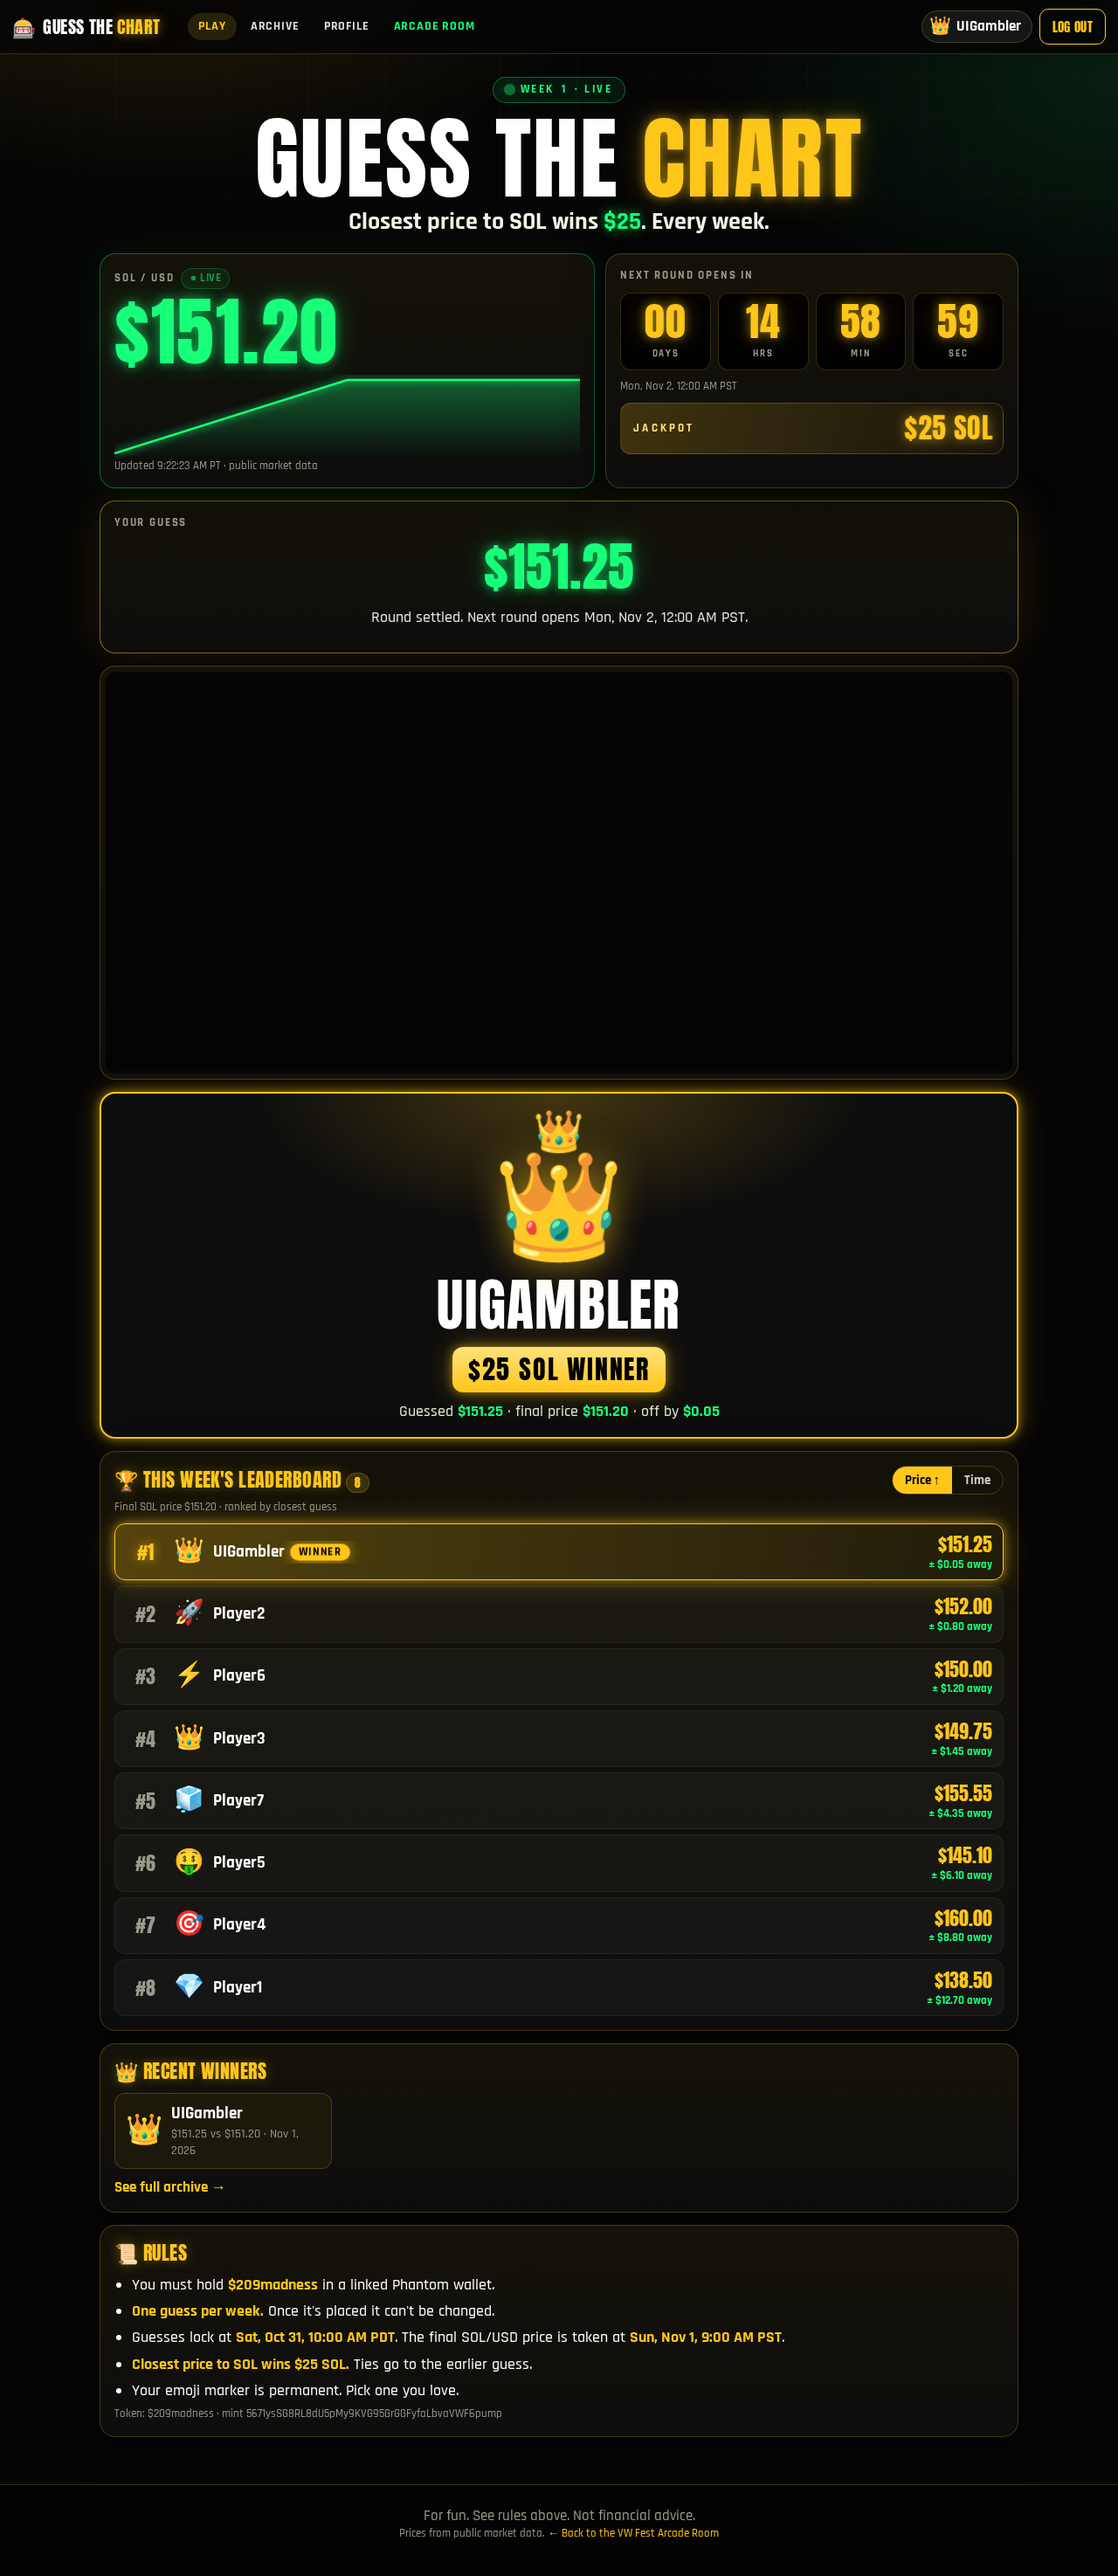
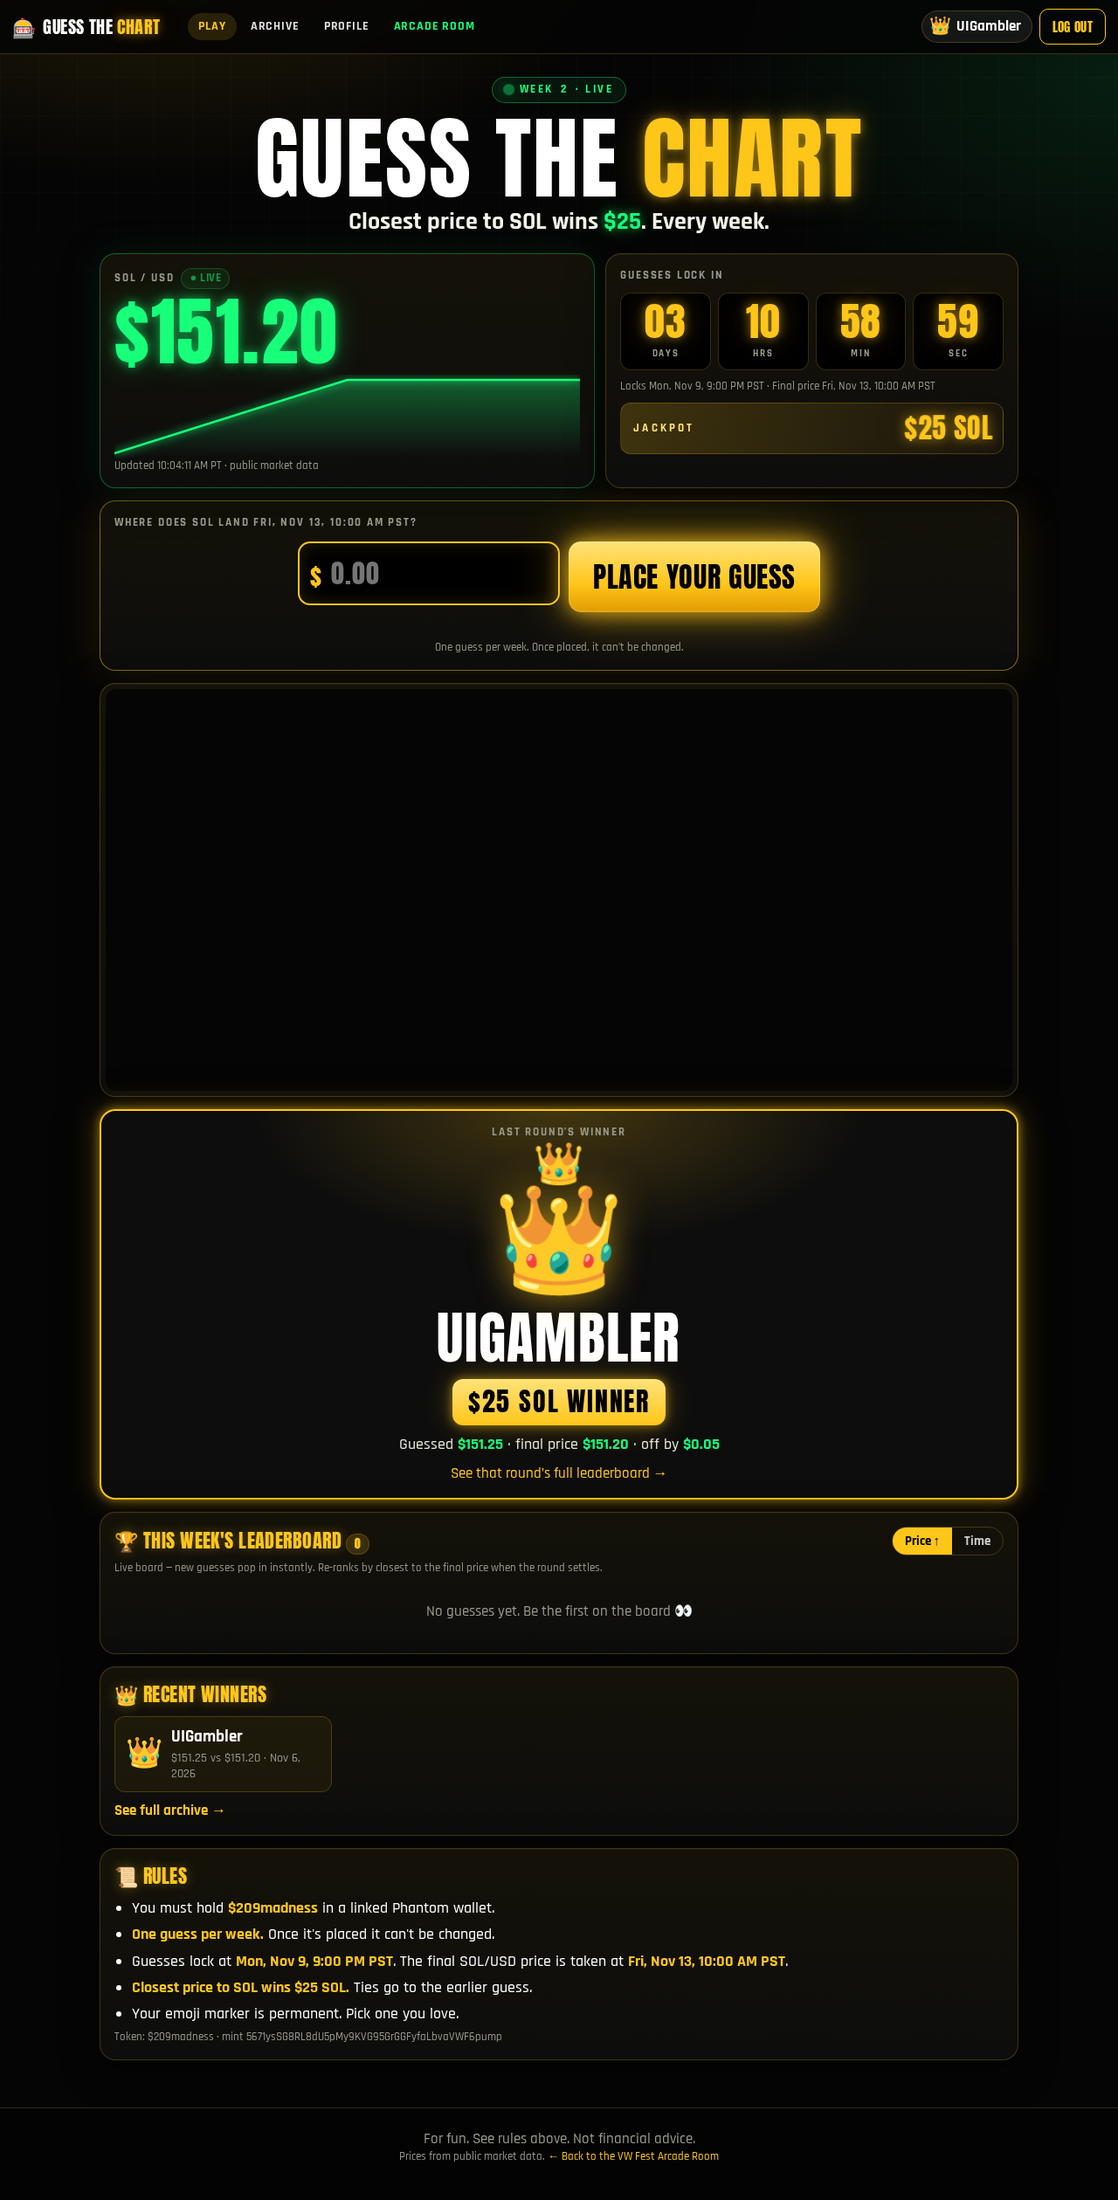
New schedule: lock Mon 9PM PT, settle Fri 10AM PT; startup migration for round 1; last-winner card

Changed region(s): [[0.0625, 0.4025, 0.9375, 0.9909], [0.0, 0.0, 0.9062, 0.3096], [0.8125, 0.0, 1.0, 0.031]]

diff --git a/server.js b/server.js
@@ -16,8 +16,8 @@ const PROD = process.env.NODE_ENV === 'production';
 const TEST = process.env.GTC_TEST === '1';
 const int = (v, d) => (v === undefined || v === '' || !Number.isFinite(+v) ? d : +v);
 const CFG = {
-  lockDay: int(process.env.LOCK_DAY, 4), lockHour: int(process.env.LOCK_HOUR, 18), lockMin: int(process.env.LOCK_MIN, 0),         // Thu 6:00 PM PT
-  settleDay: int(process.env.SETTLE_DAY, 0), settleHour: int(process.env.SETTLE_HOUR, 18), settleMin: int(process.env.SETTLE_MIN, 0), // Sun 6:00 PM PT
+  lockDay: int(process.env.LOCK_DAY, 1), lockHour: int(process.env.LOCK_HOUR, 21), lockMin: int(process.env.LOCK_MIN, 0),         // Mon 9:00 PM PT
+  settleDay: int(process.env.SETTLE_DAY, 5), settleHour: int(process.env.SETTLE_HOUR, 10), settleMin: int(process.env.SETTLE_MIN, 0), // Fri 10:00 AM PT (next round opens right after)
   mint: process.env.TOKEN_MINT || '5671ysSG8RL8dU5pMy9KVG95GrGGFyfaLbvaVWF6pump',
   requireHolding: process.env.REQUIRE_HOLDING !== 'false',
   minHold: int(process.env.MIN_HOLD, 1),
@@ -123,19 +123,19 @@ async function ensureRound() {
   if (ex) return ex;
   let lock = w.lock, settle = w.settle;
   const first = !(await db.query(`SELECT 1 FROM ${db.S}.rounds LIMIT 1`)).rows[0];
-  if (first) { // launch round: make sure players actually get a window to guess
+  if (first) { // launch round (env overrides only apply while there are no rounds at all): make sure players actually get a window to guess
     const fl = Date.parse(process.env.FIRST_ROUND_LOCK_AT || ''), fs = Date.parse(process.env.FIRST_ROUND_SETTLE_AT || '');
     if (fl && fs && fs > fl) { lock = fl; settle = fs; }
     else if (lock < now() + 12 * 3600e3) { lock = Math.ceil((now() + 24 * 3600e3) / 36e5) * 36e5; settle = lock + 24 * 3600e3; }
   }
-  await db.query(`INSERT INTO ${db.S}.rounds (week_start,lock_at,settle_at) VALUES ($1,$2,$3) ON CONFLICT (week_start) DO NOTHING`, [new Date(w.start), new Date(lock), new Date(settle)]);
+  await db.query(`INSERT INTO ${db.S}.rounds (week_start,lock_at,settle_at,sched) VALUES ($1,$2,$3,2) ON CONFLICT (week_start) DO NOTHING`, [new Date(w.start), new Date(lock), new Date(settle)]);
   return (await db.query(`SELECT * FROM ${db.S}.rounds WHERE week_start=$1`, [new Date(w.start)])).rows[0];
 }
 const phaseOf = r => r.status === 'settled' ? 'settled' : now() < +new Date(r.lock_at) ? 'open' : now() < +new Date(r.settle_at) ? 'locked' : 'settling';
 const roundDto = r => r && ({
   id: +r.id, phase: phaseOf(r), lockAt: +new Date(r.lock_at), settleAt: +new Date(r.settle_at), weekStart: +new Date(r.week_start),
   finalPrice: r.final_price === null ? null : +r.final_price, settledLate: !!r.settled_late,
-  nextOpenAt: weekFor(+new Date(r.week_start) + 3 * 864e5, CFG).next,
+  nextOpenAt: +new Date(r.settle_at),
 });
 async function priceForSettle(round) {
   const at = +new Date(round.settle_at);
@@ -170,6 +170,18 @@ async function tick() {
       await settleRound(r.id, p.usd, { late: now() > +new Date(r.settle_at) + 120000, source: p.source });
     }
   } catch (e) { console.error('tick error', e.message); } finally { ticking = false; }
+}
+
+// One-time migration (sched 1 -> 2): the unsettled round created under the old schedule is moved onto the current
+// schedule's period (guesses kept). Settled rounds and anything already on sched 2 are never touched.
+async function migrateSchedule() {
+  const old = (await db.query(`SELECT * FROM ${db.S}.rounds WHERE sched<2 AND status<>'settled' ORDER BY id DESC LIMIT 1`)).rows[0];
+  if (!old) return;
+  const w = weekFor(now(), CFG);
+  const clash = (await db.query(`SELECT 1 FROM ${db.S}.rounds WHERE week_start=$1 AND id<>$2`, [new Date(w.start), old.id])).rows[0];
+  if (clash) { console.warn('schedule migration skipped: period already has a round'); return; }
+  await db.query(`UPDATE ${db.S}.rounds SET week_start=$2, lock_at=$3, settle_at=$4, sched=2 WHERE id=$1 AND status<>'settled'`, [old.id, new Date(w.start), new Date(w.lock), new Date(w.settle)]);
+  console.log('migrated round', +old.id, 'to new schedule: lock', new Date(w.lock).toISOString(), 'settle', new Date(w.settle).toISOString());
 }
 
 // ---------- Live events (SSE) ----------
@@ -218,10 +230,12 @@ app.get('/api/state', async (req, res) => {
   const dto = roundDto(round);
   const count = +(await db.query(`SELECT count(*) c FROM ${db.S}.guesses WHERE round_id=$1`, [round.id])).rows[0].c;
   const winner = dto.phase === 'settled' ? await winnerOf(round.id) : null;
+  const lr = (await db.query(`SELECT id, final_price, settle_at FROM ${db.S}.rounds WHERE status='settled' AND id<>$1 ORDER BY settle_at DESC LIMIT 1`, [round.id])).rows[0];
+  const lastRound = lr ? { id: +lr.id, finalPrice: +lr.final_price, settleAt: +new Date(lr.settle_at), winner: await winnerOf(lr.id) } : null;
   let myGuess = null;
   if (req.user) { const g = (await db.query(`SELECT price, created_at FROM ${db.S}.guesses WHERE round_id=$1 AND user_id=$2`, [round.id, req.user.id])).rows[0]; if (g) myGuess = { guess: +g.price, at: +new Date(g.created_at) }; }
   res.set('Cache-Control', 'no-store').json({
-    now: now(), tz: TZ, round: dto, count, winner, myGuess,
+    now: now(), tz: TZ, round: dto, count, winner, lastRound, myGuess,
     price: { usd: price.state.usd, at: price.state.at, history: price.state.history.slice(-90) },
     me: req.user ? { id: +req.user.id, name: req.user.name, emoji: req.user.emoji, wallet: req.user.wallet || null, holder: !!req.user.wallet && req.user.wallet_balance !== null && +req.user.wallet_balance >= CFG.minHold } : null,
     config: { requireHolding: CFG.requireHolding, minHold: CFG.minHold, mint: CFG.mint, prize: CFG.prize, emojis: EMOJIS },
@@ -360,6 +374,7 @@ const PORT = process.env.PORT || 3000;
 (async () => {
   if (PROD && TEST) throw new Error('GTC_TEST must not be set in production');
   await db.init();
+  await migrateSchedule();
   await ensureRound();
   if (!process.env.PRICE_FIXED) await price.seedHistory();
   await price.refresh(true);

diff --git a/public/app.js b/public/app.js
@@ -214,13 +214,20 @@
         h('span', { class: 'gs' }, money(r.guess), settled ? h('small', { text: r.diff === 0 ? 'EXACT!' : '± ' + money(r.diff) + ' away' }) : null)));
     }
   }
-  function renderWinner() {
-    const box = clear($('#winnerBox')); const st = S.st; if (!st || st.round.phase !== 'settled') return;
-    if (!st.winner) { box.append(h('div', { class: 'card winnercard' }, h('h2', { text: 'Round settled' }), h('div', { text: 'Final SOL price ' + money(st.round.finalPrice) + ' · no guesses this week. The jackpot is waiting!' }))); return; }
-    const w = st.winner;
-    box.append(h('div', { class: 'card winnercard', id: 'winnerCard' }, h('div', { class: 'crown', text: '👑' }), h('div', { class: 'wemo', text: w.emoji }), h('div', { class: 'winner-name', text: w.name }),
+  function winnerCard(w, finalPrice, roundId, heading) {
+    return h('div', { class: 'card winnercard', id: 'winnerCard' }, heading ? h('div', { class: 'label', style: 'justify-content:center', text: heading }) : null, h('div', { class: 'crown', text: '👑' }), h('div', { class: 'wemo', text: w.emoji }), h('div', { class: 'winner-name', text: w.name }),
       h('div', { class: 'wbadge', text: '$25 SOL WINNER' }),
-      h('div', { class: 'wdetail' }, 'Guessed ', h('b', { text: money(w.guess) }), ' · final price ', h('b', { text: money(st.round.finalPrice) }), ' · off by ', h('b', { text: money(w.diff) }))));
+      h('div', { class: 'wdetail' }, 'Guessed ', h('b', { text: money(w.guess) }), ' · final price ', h('b', { text: money(finalPrice) }), ' · off by ', h('b', { text: money(w.diff) })),
+      roundId ? h('div', { style: 'margin-top:10px' }, h('a', { href: '#/archive/' + roundId, id: 'lastBoardLink', text: 'See that round’s full leaderboard →' })) : null);
+  }
+  function renderWinner() {
+    const box = clear($('#winnerBox')); const st = S.st; if (!st) return;
+    if (st.round.phase === 'settled') {
+      if (!st.winner) { box.append(h('div', { class: 'card winnercard' }, h('h2', { text: 'Round settled' }), h('div', { text: 'Final SOL price ' + money(st.round.finalPrice) + ' · no guesses this week. The jackpot is waiting!' }))); return; }
+      box.append(winnerCard(st.winner, st.round.finalPrice, null, null)); return;
+    }
+    const lr = st.lastRound;
+    if (lr && lr.winner) box.append(winnerCard(lr.winner, lr.finalPrice, lr.id, 'LAST ROUND’S WINNER'));
   }
   async function refreshLB() { try { S.lb = await api('/leaderboard'); renderLB(); } catch {} }
   async function refreshRecent() {
@@ -274,7 +281,7 @@
         const d = await api('/leaderboard?round=' + id); const r = d.round;
         v.append(h('a', { href: '#/archive', text: '← All rounds' }), h('div', { class: 'card' }, h('h2', { text: 'Round #' + r.id + ' · ' + fmtD(r.settleAt) }), r.finalPrice ? h('div', { text: 'Final SOL price ' + money(r.finalPrice) + (r.settledLate ? ' (settled from historical price data)' : '') }) : h('div', { text: 'Not settled yet' }),
           d.winner ? h('div', { class: 'winnercard card' }, h('div', { class: 'wemo', text: d.winner.emoji }), h('div', { class: 'winner-name', text: d.winner.name }), h('div', { class: 'wbadge', text: '$25 SOL WINNER' })) : null,
-          h('ol', { class: 'lb', style: 'margin-top:12px' }, d.entries.map(e => h('li', { class: 'row' + (e.rank === 1 ? ' top1' : '') }, h('span', { class: 'pos', text: e.rank ? '#' + e.rank : e.pos }), h('span', { class: 'emo', text: e.emoji }), h('span', { class: 'nm', text: e.name }), h('span', { class: 'gs' }, money(e.guess), e.diff !== null ? h('small', { text: '± ' + money(e.diff) }) : null))))));
+          h('ol', { class: 'lb', style: 'margin-top:12px' }, d.entries.map(e => h('li', { class: 'row' + (e.rank === 1 ? ' top1' : '') }, h('span', { class: 'pos', text: e.rank ? '#' + e.rank : e.pos }), h('span', { class: 'emo', text: e.emoji }), h('span', { class: 'nm' }, e.name, e.rank === 1 ? h('span', { class: 'badge', text: 'WINNER' }) : null), h('span', { class: 'gs' }, money(e.guess), e.diff !== null ? h('small', { text: '± ' + money(e.diff) }) : null))))));
       } catch { v.append(h('div', { class: 'card', text: 'Round not found.' })); }
       return;
     }

diff --git a/lib/time.js b/lib/time.js
@@ -15,19 +15,31 @@ function ptToUtc(y, mo, d, h = 0, mi = 0) {
   t = guess - offsetAt(t);
   return t;
 }
-// Monday 00:00 PT of the week containing `ms`, plus lock/settle times from config.
+// Rounds run from one settle moment to the next (default: Friday 10:00 AM PT -> next Friday 10:00 AM PT).
+// start = most recent settle-day/hour at or before `ms`; lock = first lock-day/hour after start; settle = start + 1 week (wall-clock, DST-aware).
 function weekFor(ms, cfg) {
   const p = parts(ms);
-  const sinceMon = (p.dow + 6) % 7;
-  const base = Date.UTC(p.y, p.mo - 1, p.d - sinceMon); // midnight UTC of the Monday's calendar date
-  const m = new Date(base);
-  const at = (dayFromMon, hour, min) => { const x = new Date(base + dayFromMon * 86400000); return ptToUtc(x.getUTCFullYear(), x.getUTCMonth() + 1, x.getUTCDate(), hour, min); };
-  const start = ptToUtc(m.getUTCFullYear(), m.getUTCMonth() + 1, m.getUTCDate(), 0, 0);
-  return {
-    start,
-    lock: at((cfg.lockDay + 6) % 7, cfg.lockHour, cfg.lockMin),
-    settle: at((cfg.settleDay + 6) % 7, cfg.settleHour, cfg.settleMin),
-    next: ptToUtc(...(() => { const x = new Date(base + 7 * 86400000); return [x.getUTCFullYear(), x.getUTCMonth() + 1, x.getUTCDate(), 0, 0]; })()),
-  };
+  const base = Date.UTC(p.y, p.mo - 1, p.d);
+  const dayAt = (dayMs, hour, min) => { const x = new Date(dayMs); return ptToUtc(x.getUTCFullYear(), x.getUTCMonth() + 1, x.getUTCDate(), hour, min); };
+  const dowOf = dayMs => (new Date(dayMs).getUTCDay());
+  let start = null;
+  for (let i = 0; i <= 7 && start === null; i++) {
+    const d = base - i * 86400000;
+    if (dowOf(d) !== cfg.settleDay) continue;
+    const t = dayAt(d, cfg.settleHour, cfg.settleMin);
+    if (t <= ms) start = { t, d };
+  }
+  if (start === null) { // settle day was 7+ days back (cannot happen), fall back to the day 7 back
+    const d = base - 7 * 86400000; start = { t: dayAt(d, cfg.settleHour, cfg.settleMin), d };
+  }
+  let lock = null;
+  for (let i = 0; i <= 7 && lock === null; i++) {
+    const d = start.d + i * 86400000;
+    if (dowOf(d) !== cfg.lockDay) continue;
+    const t = dayAt(d, cfg.lockHour, cfg.lockMin);
+    if (t > start.t) lock = t;
+  }
+  const settle = dayAt(start.d + 7 * 86400000, cfg.settleHour, cfg.settleMin);
+  return { start: start.t, lock, settle, next: settle };
 }
 module.exports = { TZ, parts, ptToUtc, weekFor };

diff --git a/lib/db.js b/lib/db.js
@@ -41,6 +41,7 @@ CREATE TABLE IF NOT EXISTS ${SCHEMA_NAME}.rounds (
   settled_at TIMESTAMPTZ,
   settled_late BOOLEAN NOT NULL DEFAULT false
 );
+ALTER TABLE ${SCHEMA_NAME}.rounds ADD COLUMN IF NOT EXISTS sched INTEGER NOT NULL DEFAULT 1;
 CREATE TABLE IF NOT EXISTS ${SCHEMA_NAME}.guesses (
   id BIGSERIAL PRIMARY KEY,
   round_id BIGINT NOT NULL REFERENCES ${SCHEMA_NAME}.rounds(id),

diff --git a/README.md b/README.md
@@ -7,8 +7,8 @@ Node 20 + Express 5 + Postgres (own schema `gtc`), vanilla JS front end, Trading
 ## Rules (in-app)
 Hold $209madness in a linked Phantom wallet · one guess per week, no edits · guesses lock at the lock time · the final SOL/USD price is taken at settle time · closest wins, ties go to the earlier guess.
 
-## Schedule (America/Los_Angeles, configurable)
-Rounds run Monday 00:00 PT → next Monday. Defaults: **lock Thursday 6:00 PM PT**, **settle Sunday 6:00 PM PT** (final price = SOL/USD at that minute). A background job settles automatically; if the free host was asleep, it settles from the exact historical 1‑minute price at settle time.
+## Schedule (America/Los_Angeles, DST-aware, configurable)
+A round opens the moment the previous one settles. Defaults: **lock Monday 9:00 PM PT**, **settle Friday 10:00 AM PT** (final price = SOL/USD at that minute), and the next round opens right then. A background job settles automatically; if the free host was asleep, it settles from the exact historical 1‑minute price at settle time. Startup migration (`sched` column) moves a round created under an older schedule onto the current one, keeping its guesses; `FIRST_ROUND_*` only apply while no rounds exist.
 
 | Env var | Default | Meaning |
 |---|---|---|
@@ -19,7 +19,7 @@ Rounds run Monday 00:00 PT → next Monday. Defaults: **lock Thursday 6:00 PM PT
 | `REQUIRE_HOLDING` | `true` | `false` turns the wallet/holding check off |
 | `MIN_HOLD` | `1` | Minimum token balance (UI units) |
 | `SOLANA_RPC` | mainnet-beta public | Comma-separated RPC URLs (tried in order) |
-| `LOCK_DAY/HOUR/MIN`, `SETTLE_DAY/HOUR/MIN` | 4/18/0, 0/18/0 | Day 0=Sun…6=Sat, PT |
+| `LOCK_DAY/HOUR/MIN`, `SETTLE_DAY/HOUR/MIN` | 1/21/0, 5/10/0 | Day 0=Sun…6=Sat, PT (next round opens at the settle time) |
 | `FIRST_ROUND_LOCK_AT`, `FIRST_ROUND_SETTLE_AT` | auto | ISO times for the very first (launch) round only |
 | `PRIZE_TEXT` | `$25 SOL` | Prize label |
 | `SIGNUP_LIMIT` | 8 | Sign-ups per IP per hour |
